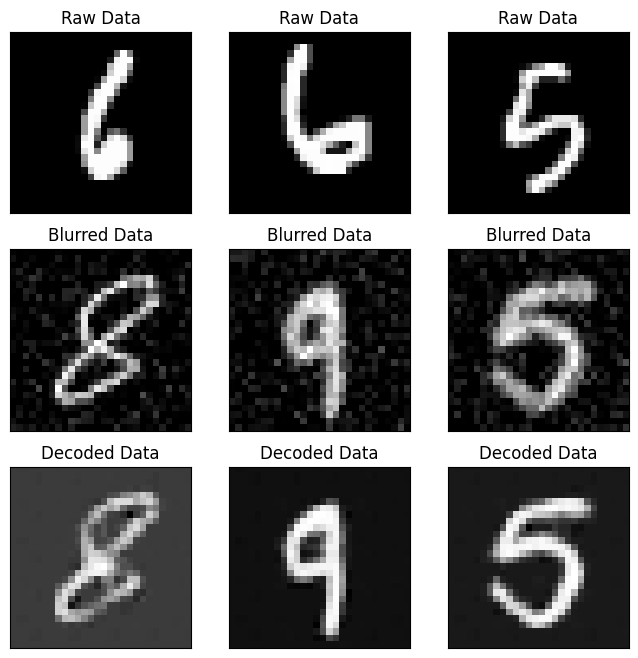
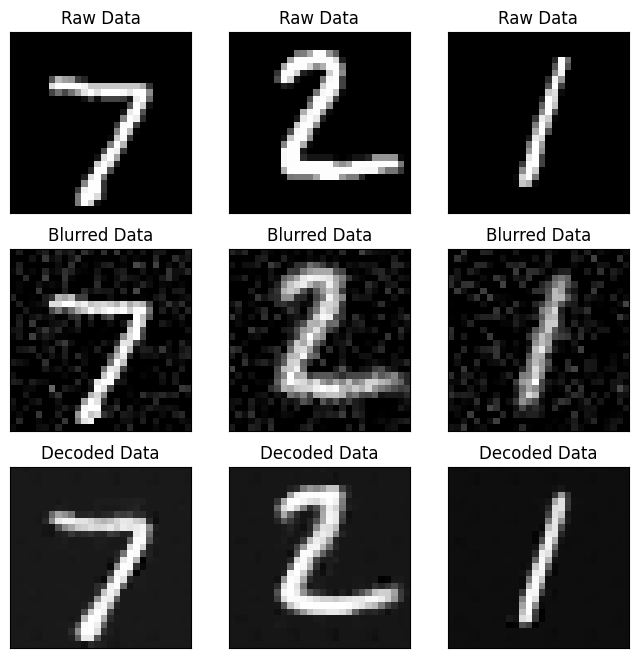
Added Result to README and fixes some result images

diff --git a/README.md b/README.md
@@ -21,3 +21,25 @@ The MNIST dataset is utilized for this project, and it can be foudn in the `data
 ## Usage
 
 The test code is available in `model_test.ipynb`. Ensure that you a have Jupyter Notebook environment set up.
+
+## Result
+
+### 10 Epochs
+
+#### Decoded image
+
+![](result/comparision_small.png)
+
+#### Clustering labels
+
+![](<result/clustering_small%20(acc%20=%200.42).png>)
+
+### 100 Epochs
+
+#### Decoded image
+
+![](result/comparision_medium.png)
+
+#### Clustering labels
+
+![](<result/clustering_medium%20(acc%20=%200.43).png>)
